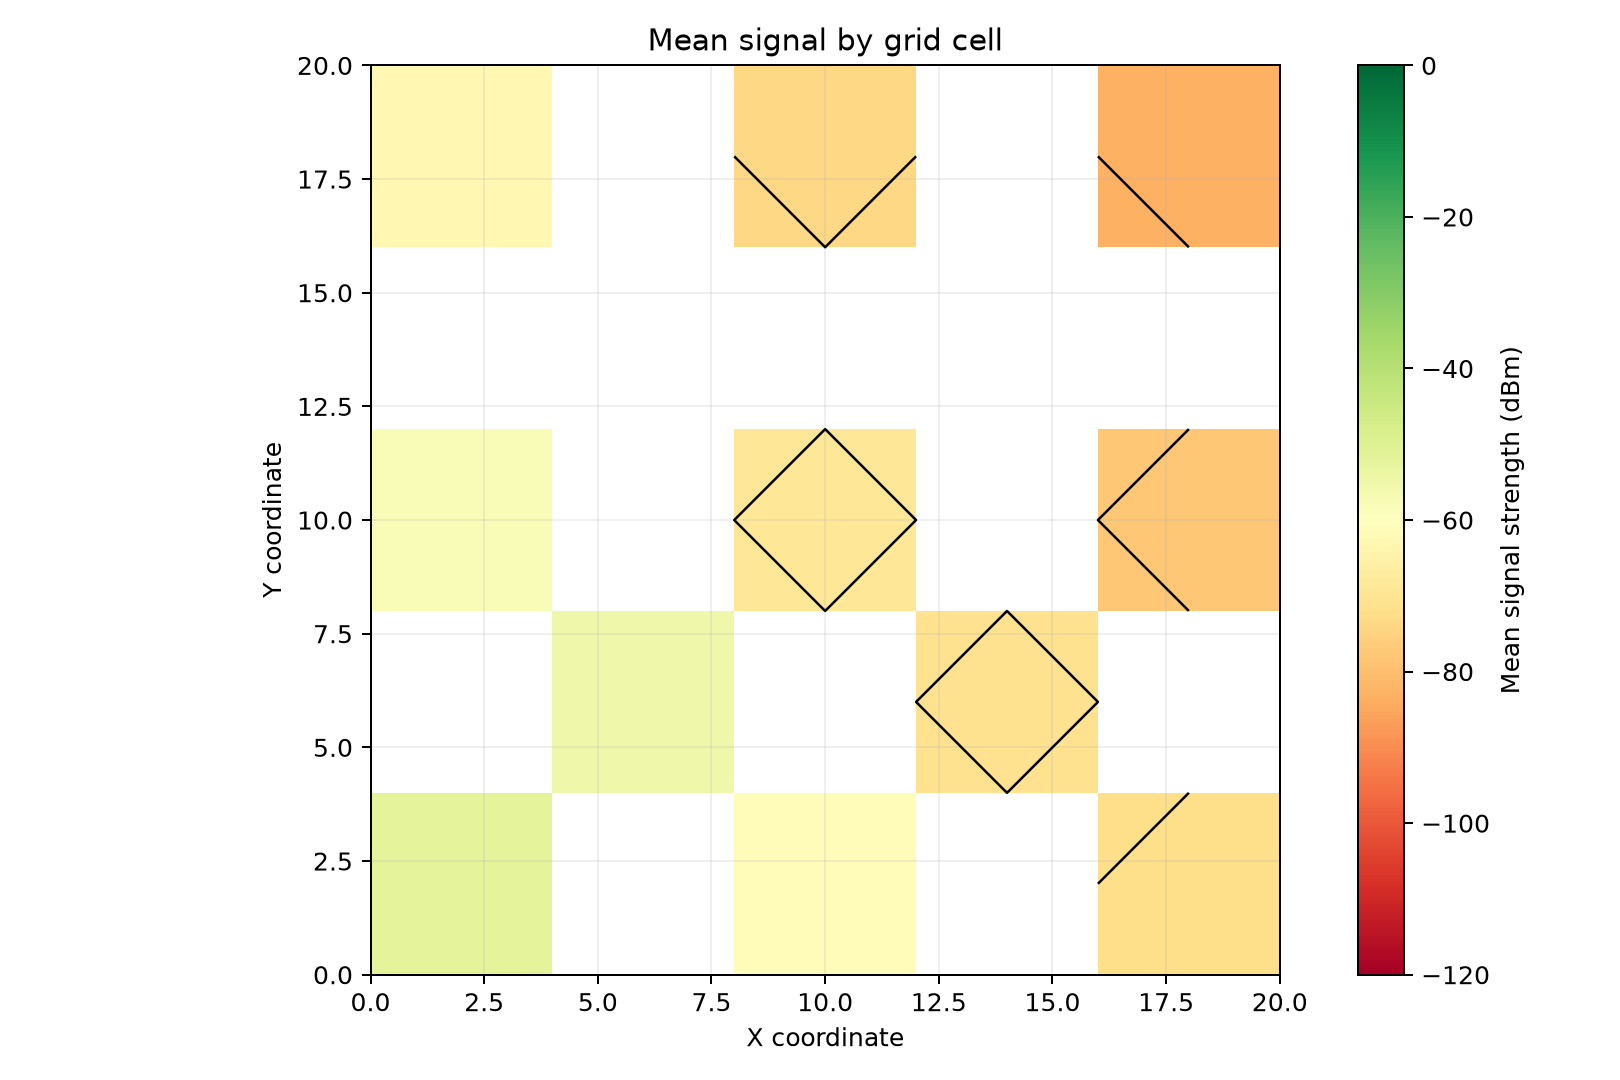
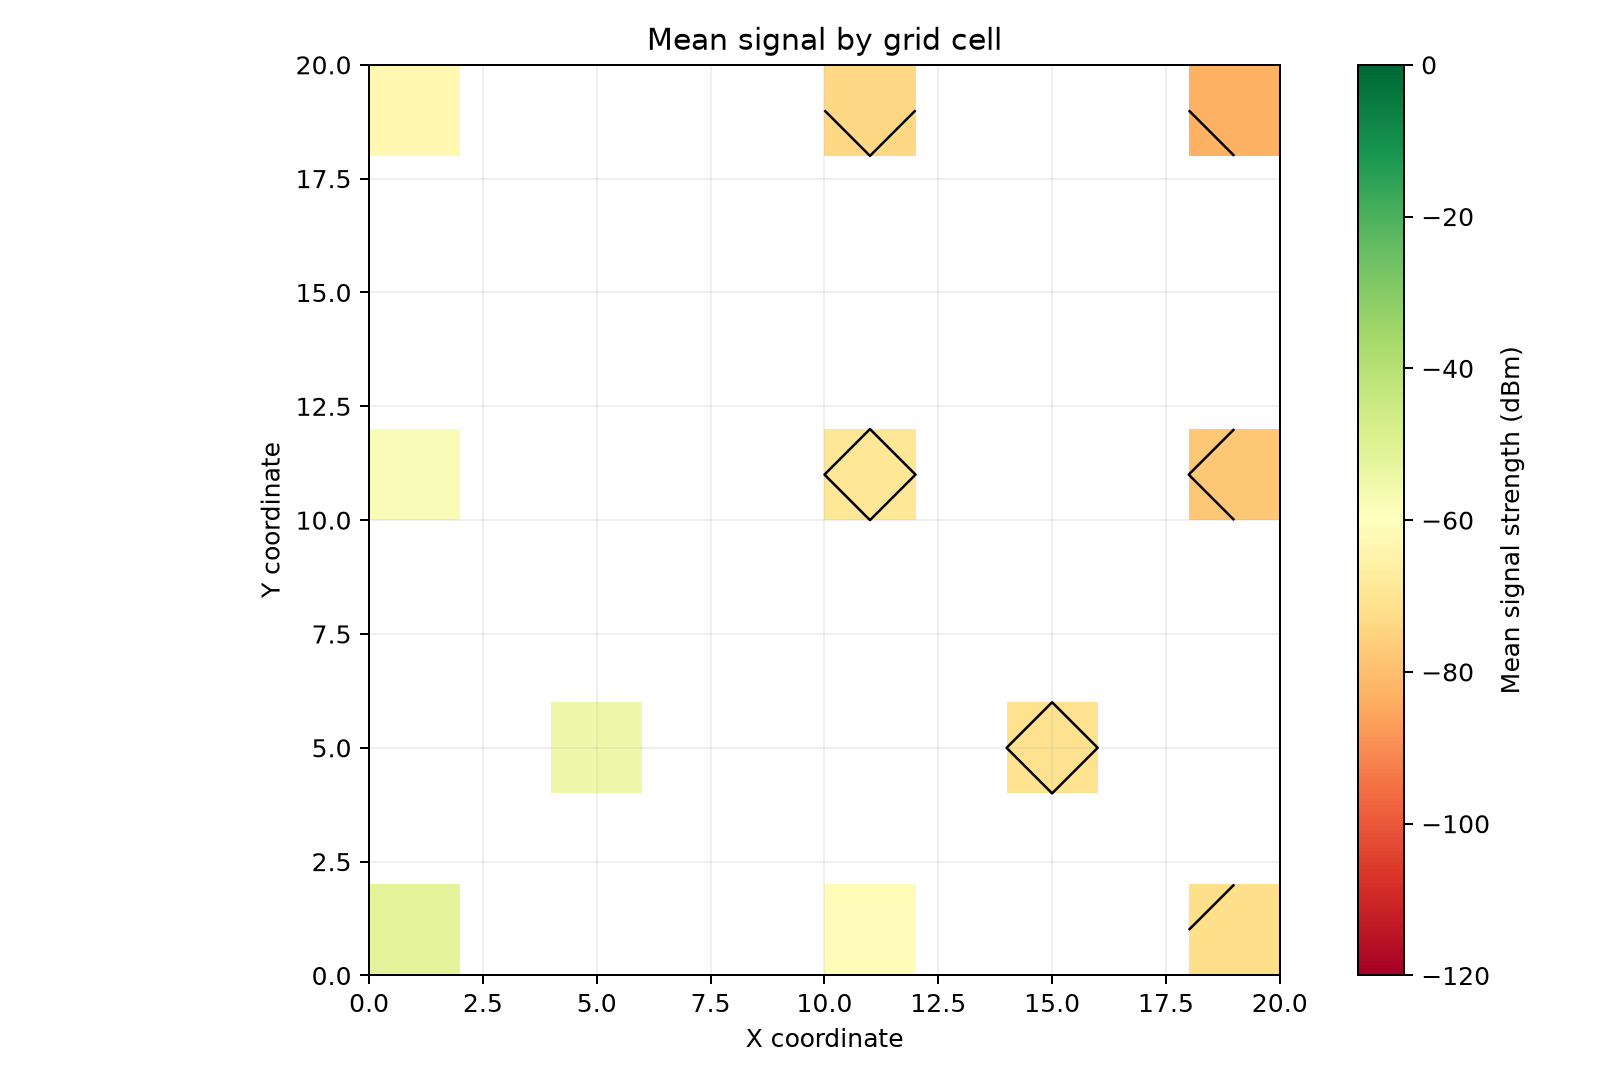
Add changelog and finalize project for release

diff --git a/analysis_output/analysis_report.md b/analysis_output/analysis_report.md
@@ -6,14 +6,14 @@
 
 ## Executive summary
 
-- Input: `C:\Users\User\Python_Project2026\survey_points.csv`
+- Input: `/Users/abhrakantibiswas/Downloads/Wireless-Coverage-Mapper/survey_points.csv`
 - Valid measured points: **11**
 - Rejected rows: **1**
 - Weak threshold: **-67 dBm**
 - Weak measured points: **6**
   (**54.55%**)
 - Weakest measured location: **C-03 (-83.0 dBm)**
-- Grid cells with measurements: **44.00%**
+- Grid cells with measurements: **11.00%**
 
 ## Engineering interpretation
 
